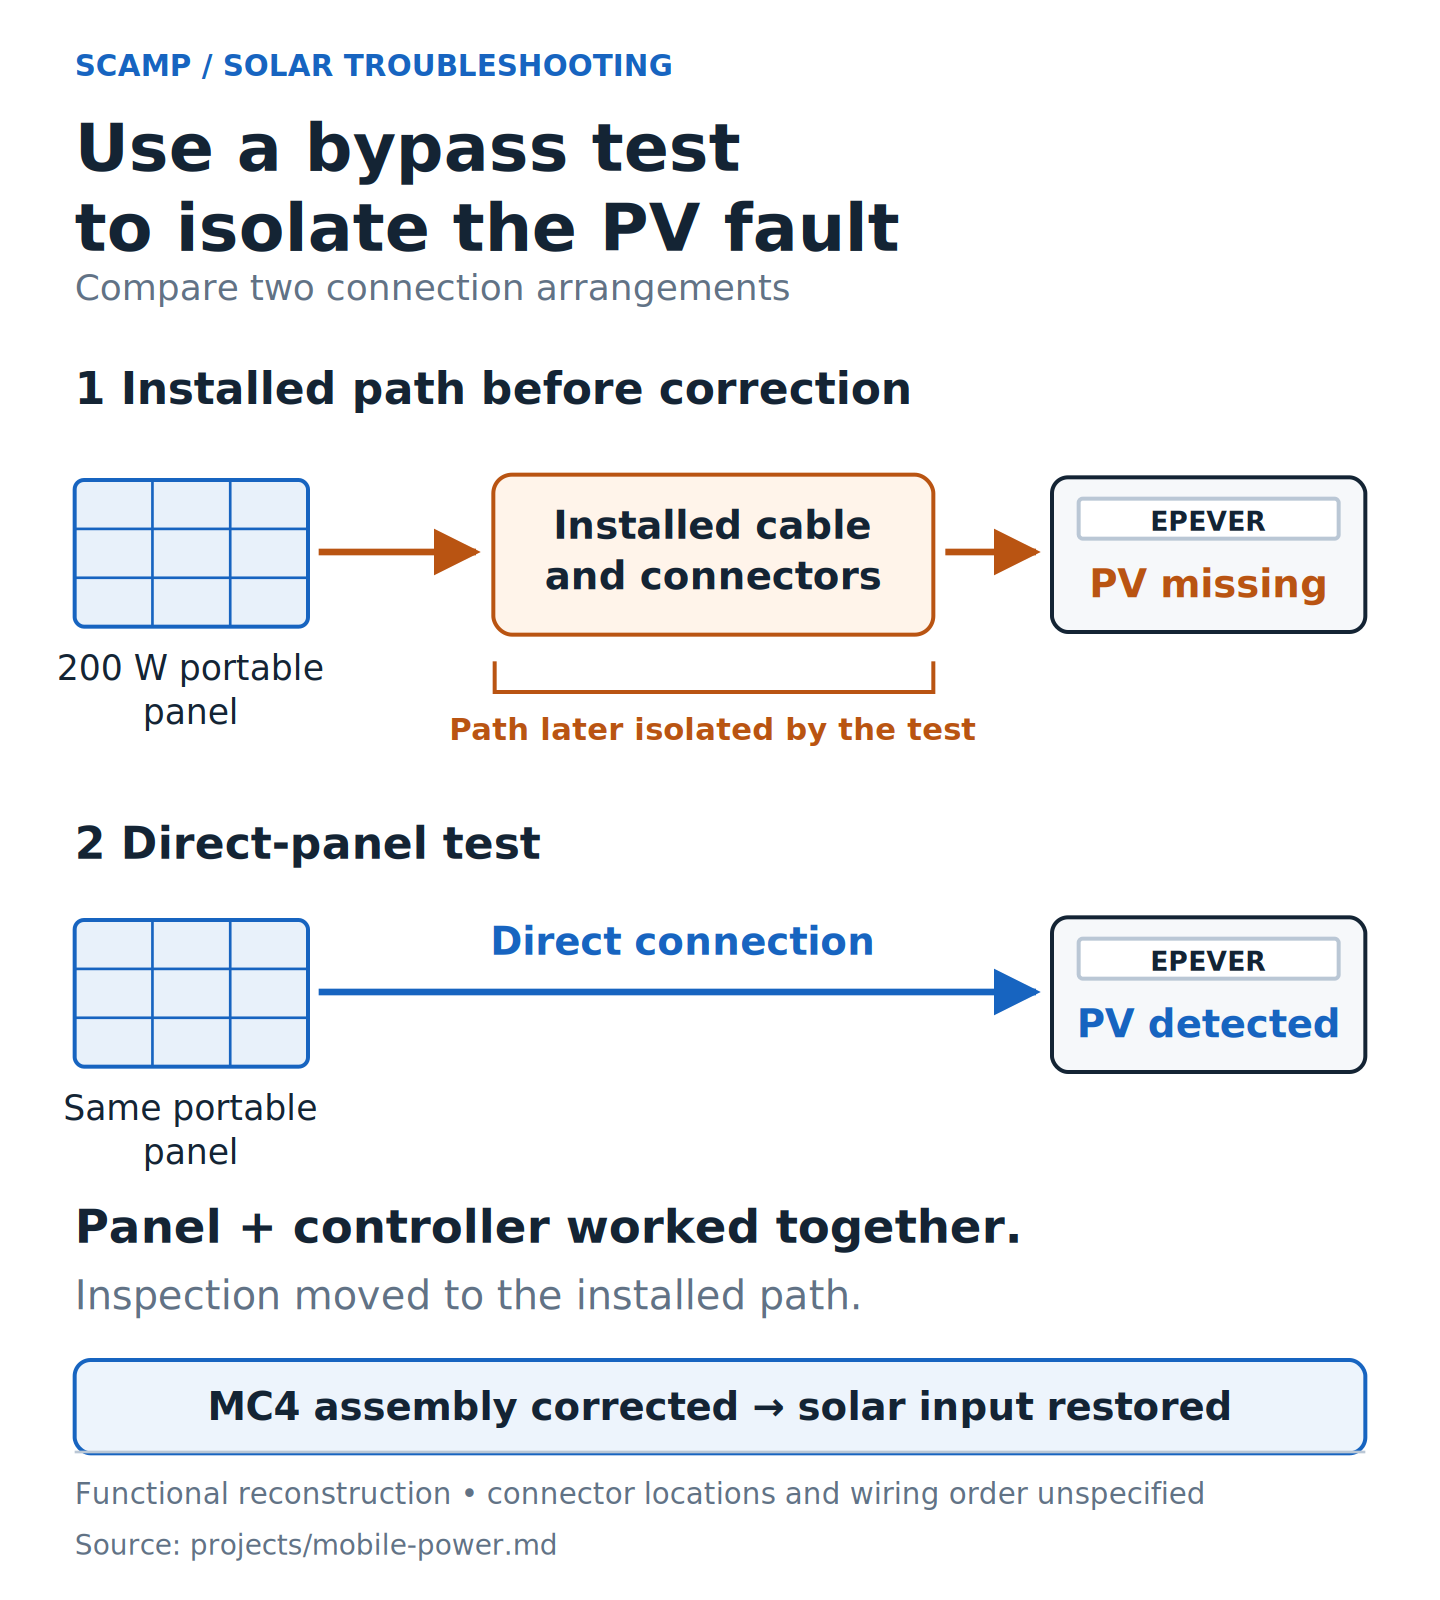
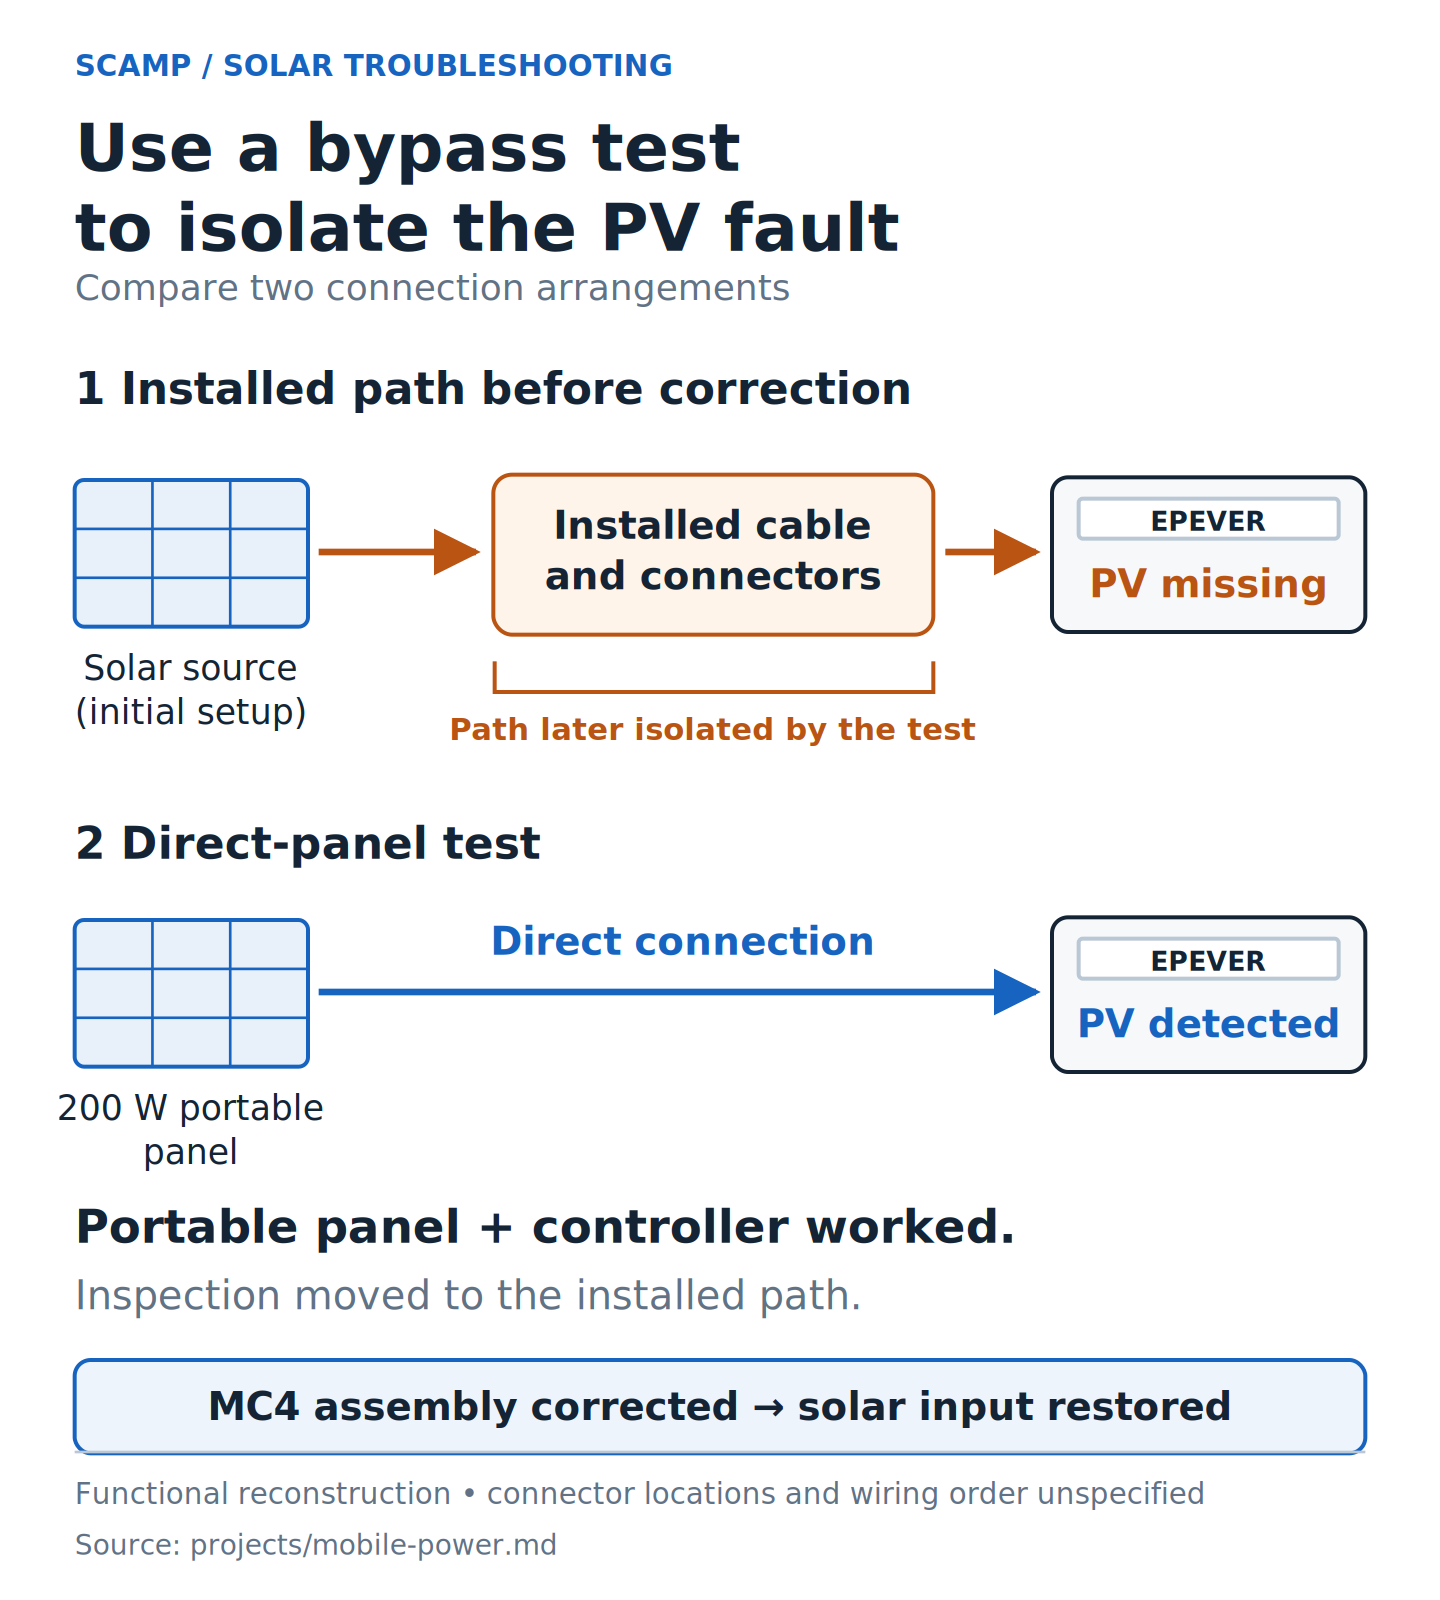
Save the source-faithful SCAMP export and retain installation context

Changed region(s): [[0.0625, 0.75, 0.7188, 0.7812], [0.0312, 0.4062, 0.2188, 0.4688], [0.0312, 0.6875, 0.2188, 0.7188]]

diff --git a/artifacts/mobile-power/README.md b/artifacts/mobile-power/README.md
@@ -9,3 +9,9 @@ The [installation account](../../projects/mobile-power.md) records a missing PV-
 The diagnostic contribution is the bypass test: it tested the panel/controller separately from the installed wiring path. Continuity alone had not explained the missing input.
 
 The figure is an account-based reconstruction. The existing [battery-monitor photograph](scamp-battery-monitor.jpg) shows installed hardware and display readings; it does not establish solar yield, battery capacity, or the voltage/current history of this fault.
+
+## Retained installation photograph
+
+<img src="scamp-battery-monitor.jpg" width="360" alt="Original photograph of the Renogy battery monitor installed in the SCAMP wall" />
+
+The existing photograph shows the installed battery-monitor display. It supplies installation context; it is not a retained measurement of the PV fault or its correction. [Open the original photograph](scamp-battery-monitor.jpg).
